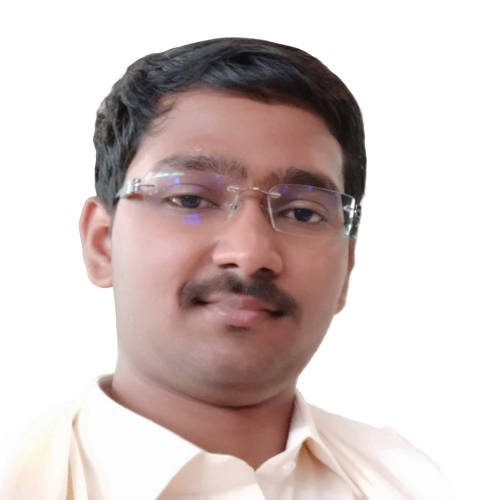
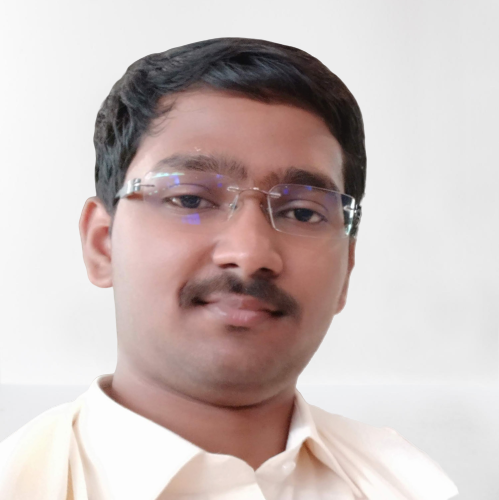
photos update

diff --git a/app.js b/app.js
@@ -245,7 +245,7 @@ d3.tree().nodeSize([dx*4, dy])
   {
     id: 'c',
     name: 'Rajannan',
-    title: 'Chennammal',
+    title: 'Saraswathi',
     parent: 'a',
     img: ''
   },
@@ -268,7 +268,7 @@ d3.tree().nodeSize([dx*4, dy])
     name: 'Natarajan',
     title: 'Saraswathi',
     parent: 'a',
-    img: ''
+    img: './images/Nataraj/Nataraj.jpg'
   },
   {
     id: 'g',
@@ -429,7 +429,7 @@ d3.tree().nodeSize([dx*4, dy])
     name: 'Audvik',
     title: '👨',
     parent: 'bciii',
-    img: './images/Govindaraju/Aishwarya.jpg'
+    img: './images/Govindaraju/Audvik.jpg'
   },
   {
     id: 'bd',
@@ -534,7 +534,7 @@ d3.tree().nodeSize([dx*4, dy])
     name: 'Anupriya',
     title: 'Krishnaraj',
     parent: 'be',
-    img: ''
+    img: './images/Govindaraju/Anu.jpg'
   },
   {
     id: 'beiia',
@@ -607,18 +607,60 @@ d3.tree().nodeSize([dx*4, dy])
     img: './images/Govindaraju/Ganesh.jpg'
   },
   {
+    id: 'ca',
+    name: 'Pushpa',
+    title: 'Please update',
+    parent: 'c',
+    img: ''
+  },
+  {
+    id: 'cb',
+    name: 'Ravichandran',
+    title: 'Please update',
+    parent: 'c',
+    img: ''
+  },
+  {
+    id: 'cc',
+    name: 'Gunasekaran',
+    title: 'Please update',
+    parent: 'c',
+    img: ''
+  },
+  {
+    id: 'cd',
+    name: 'Padma',
+    title: 'Please update',
+    parent: 'c',
+    img: ''
+  },
+  {
+    id: 'ce',
+    name: 'Shanthi',
+    title: 'Please update',
+    parent: 'c',
+    img: ''
+  },
+  {
+    id: 'cf',
+    name: 'Janarthanan',
+    title: 'Please update',
+    parent: 'c',
+    img: ''
+  },
+  {
     id: 'da',
     name: 'Subramanian',
     title: 'Chamundeshwari',
     parent: 'd',
-    img: ''
+    img: './images/Venugopal/Subramanian.jpg'
   },
   {
     id: 'dai',
     name: 'Venugopal',
     title: 'Soundarya',
     parent: 'da',
-    img: ''
+    img: './images/Venugopal/Vignesh.jpg'
   },
   {
     id: 'daia',
@@ -646,13 +688,14 @@ d3.tree().nodeSize([dx*4, dy])
     name: 'Lakshman',
     title: 'Shanthi',
     parent: 'da',
-    img: ''
-  },{
+    img: './images/Venugopal/Lakshman.jpg'
+  },
+  {
     id: 'db',
     name: 'Siddaraj',
     title: 'Leelavathi',
     parent: 'd',
-    img: ''
+    img: './images/Venugopal/Leela.jpg'
   },
   {
     id: 'dbi',
@@ -792,7 +835,7 @@ d3.tree().nodeSize([dx*4, dy])
     name: 'Vijay Ranjan',
     title: '👨',
     parent: 'de',
-    img: './images/Venugopal/Vijayranjan.jpg'
+    img: './images/Venugopal/Vijayranjan.png'
   },
   {
     id: 'deia',
@@ -967,7 +1010,7 @@ d3.tree().nodeSize([dx*4, dy])
     name: 'Suseela',
     title: 'Suryaprakash',
     parent: 'e',
-    img: ''
+    img: './images/Gurusamy/Susi.jpg'
   },
   {
     id: 'edi',
@@ -1044,14 +1087,21 @@ d3.tree().nodeSize([dx*4, dy])
     name: 'Kumar',
     title: 'Punithavathi',
     parent: 'f',
-    img: ''
+    img: './images/Nataraj/Kumar.jpg'
   },
   {
     id: 'fbi',
     name: 'Gowripriya',
     title: 'Shivakumar',
     parent: 'fb',
-    img: ''
+    img: './images/Nataraj/Gowri.jpg'
+  },
+  {
+    id: 'fbia',
+    name: 'Thara',
+    title: '👧',
+    parent: 'fbi',
+    img: './images/Nataraj/Thara.jpg'
   },
   {
     id: 'fbii',
@@ -1128,28 +1178,28 @@ d3.tree().nodeSize([dx*4, dy])
     name: 'Gopikanandini',
     title: 'Sampath Kumar',
     parent: 'g',
-    img: ''
+    img: './images/Krishnaraj/Nandhini.jpg'
   },
   {
     id: 'gai',
-    name: 'Shridar',
-    title: 'Boomi',
+    name: 'Sreedharan',
+    title: 'Bommi',
     parent: 'ga',
-    img: ''
+    img: './images/Krishnaraj/Sreedharan.jpg'
   },
   {
     id: 'gaia',
-    name: 'Vishanth',
+    name: 'Visanth',
     title: '👨',
     parent: 'gai',
-    img: ''
+    img: './images/Krishnaraj/Visanth.jpg'
   },
   {
     id: 'gaii',
     name: 'Parthiban',
     title: 'Aishwarya',
     parent: 'ga',
-    img: ''
+    img: './images/Krishnaraj/Parthiban.jpg'
   },
   {
     id: 'gb',

diff --git a/search.js b/search.js
@@ -21,7 +21,9 @@ $.getJSON( "data.json", function( json ) {
     
             jQuery.each(value, function (key, value) {
                 record += (' ' + value);
-            });           
+            });         
+            
+            console.log(tag2);  
     
             $(element).append($(tag).append($(tag2)));
         }
@@ -40,7 +42,7 @@ $.getJSON( "data.json", function( json ) {
     
             if (match) {
                 if(value.parent.startsWith('a')) {
-                    family = "Perumal's family"; 
+                    family = "Perumal's son"; 
                 } else if (value.parent.startsWith('b')) {
                     family = "Govindaraju's family";
                 } else if (value.parent.startsWith('d')) {
@@ -59,10 +61,12 @@ $.getJSON( "data.json", function( json ) {
                     family = "Ramdass's family";
                 } else if (value.parent.startsWith('k')) {
                     family = "Seethalakshmi's family";
-                } 
+                }
                 
                 $('.undraw').hide();
-                append_to_results('.results', '<div class="match col-xl-4 col-lg-4 col-md-6 col-sm-6 col-xs-6 px-auto">', '<div class="card shadow-lg px-2 rounded-lg my-2 border-0" style="overflow: auto"><div class="card-horizontal"><div class="p-3"><img src="'+value.img+'" height="150px" width="150px" class="rounded-lg"></div><div class="card-body"><p class="mb-1">'+value.name+'</p><p class="p-0 text-muted" style="font-size:18px">'+value.title+'</p><p class="p-0 m-0 text-muted" style="font-size:18px"><img class="img-fluid" src="./images/home/location.png" height="30" width="30">'+value.location+'</p><span class="badge badge-success" style="font-size: 12px; opacity:0.7">'+family+'</span></div></div></div></div>', key, value);
+                append_to_results('.results', 
+                    '<div class="match col-xl-4 col-lg-4 col-md-6 col-sm-6 col-xs-6 px-auto">',
+                    '<div class="card shadow-lg px-2 rounded-lg my-2 border-0" style="overflow: auto"><div class="card-horizontal"><div class="p-3"><img src="'+value.img+'" height="150px" width="150px" class="rounded-lg search-img"></div><div class="card-body"><p class="mb-1">'+value.name+'</p><p class="p-0 text-muted" style="font-size:18px">'+value.title+'</p><p class="p-0 m-0 text-muted" style="font-size:18px"><img class="img-fluid" src="./images/home/location.png" height="30" width="30">'+value.location+'</p><span class="badge badge-success" style="font-size: 14px; opacity:0.7;">'+family+'</span></div></div></div></div>', key, value);
             }
         }
     
@@ -73,11 +77,13 @@ $.getJSON( "data.json", function( json ) {
             var input_val = $(this).val();
     
             // If key pressed is not alphanumeric or backspace, early exit
-            if (!check_key_event(key_event) || input_val.length <= 2 || input_val == 'image') {
+            if (!check_key_event(key_event) || input_val.length <= 2 || input_val == 'image' || input_val == 'jpg' || input_val == 'png') {
                 return false;
             }
             // Clear list of results
             $('.match').remove();
+            console.log(input_val);
+            
     
             jQuery.each(json, function (key, value) { 
                 if (input_val.toLowerCase() == 'bangalore' || input_val.toLowerCase() == 'karnataka' || input_val.toLowerCase() == 'bang') {
@@ -95,6 +101,6 @@ $.getJSON( "data.json", function( json ) {
         }
     
         // Add event handler to the input field
-        $('.search_term').on('keyup blur change paste cut reset submit', search_autocomplete);
+        $('.search_term').on('keyup input blur change paste cut reset submit', search_autocomplete);
 });
 

diff --git a/index.html b/index.html
@@ -2,7 +2,7 @@
 <head>
    <meta charset="utf-8">
    <meta name="theme-color" content="#adff7a" />
-   <title>Omalur Perumal Family Tree</title>
+   <title>Omalur Perumal Family Connect</title>
    <link rel="apple-touch-icon" sizes="180x180" href="./images/home/apple-touch-icon.png">
   <link rel="icon" type="image/png" sizes="32x32" href="./images/home/favicon-32x32.png">
   <link rel="icon" type="image/png" sizes="16x16" href="./images/home/favicon-16x16.png">
@@ -24,7 +24,7 @@
 <body>
    <nav class="navbar navbar-primary bg-primary d-flex justify-content-center shadow text-size" style="background: transparent!important;">
       <span class="navbar-text">
-      Omalur - Perumal Family Tree
+      Omalur - Perumal Family Connect
       </span>
    </nav>
    <div id="tree"></div>
@@ -33,7 +33,7 @@
    <div class="search-form d-flex justify-content-center">
       <div class="container-fluid">
          <div class="d-flex justify-content-center align-items-center">
-            <input type="text" class="search_term shadow-lg" placeholder="Search Name or Location" autofocus autocomplete="off">
+            <input type="text" class="search_term shadow-lg" placeholder="Search person by name or location" autofocus autocomplete="off">
             <img src="./images/home/searchicon.png" height="60" width="50" alt="" class="search-button mx-4">
          </div>
          <div class="row results mt-5 w-100" border="0"></div>

diff --git a/inspector.css b/inspector.css
@@ -95,6 +95,8 @@ body {
     background: #8e9eab;  /* fallback for old browsers */
     background: -webkit-linear-gradient(to right, #e0f7d2 50%, #c9e1f5);  /* Chrome 10-25, Safari 5.1-6 */
     background: linear-gradient(to right, #e0f7d2 50%, #c9e1f5); /* W3C, IE 10+/ Edge, Firefox 16+, Chrome 26+, Opera 12+, Safari 7+ */
+    z-index: 0;
+    position:relative;
 }
 
 #tree {
@@ -106,7 +108,8 @@ svg {
 }
 
 body::-webkit-scrollbar {
-  width: 0.5 em;
+  width: 1 em;
+  background-color: #c9e1f5;
 }
 
 body::-webkit-scrollbar-track {
@@ -114,8 +117,8 @@ body::-webkit-scrollbar-track {
 }
 
 body::-webkit-scrollbar-thumb {
-background-color: darkgrey;
-outline: 1px solid slategrey;
+background-color: #66baff;
+outline: 1px solid rgb(85, 166, 248);
 }
 
 .navbar{
@@ -191,4 +194,12 @@ h5 {
 
 .carousel-caption {
   background-color: #00000061 !important;
+}
+
+.search-img {
+  object-fit: cover; 
+  background: #c9e1f5 url('./images/home/perumal.png');
+  background-size: contain;
+  background-repeat: no-repeat;
+  background-position: center;
 }
